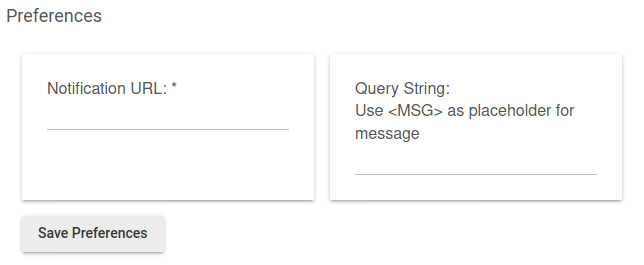
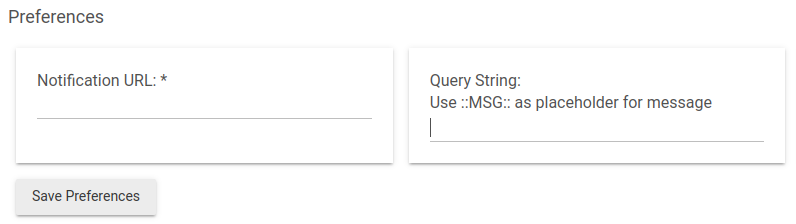
Change the MSG separator characters from <> to ::
Newer versions of Hubitat don't allow the characters <> to be saved in an app's preferences.

diff --git a/README.md b/README.md
@@ -9,7 +9,7 @@ This driver is the counterpart to my [MagicMirror²](https://github.com/MichMich
 ![Screenshot](screenshot.png)
 
 - **Notification URL:** (Required) Where to send your notifications to.
-- **Query String:** (Optional) Any query parameters you want to send. Use `<MSG>` as a placeholder for the notification message.
+- **Query String:** (Optional) Any query parameters you want to send. Use `::MSG::` as a placeholder for the notification message.
 
 Only the message will be URL encoded before it's sent. If your query string needs encoding you will need to do that on your own.
 
@@ -18,7 +18,7 @@ Only the message will be URL encoded before it's sent. If your query string need
 |Preference|Value|
 |--|--|
 |Notification URL|`http://magicmirror:8080/MMM-HomeAutomationNotifications`|
-|Query String|`type=WARNING&message=<MSG>`|
+|Query String|`type=WARNING&message=::MSG::`|
 
 ## Using the driver
 
